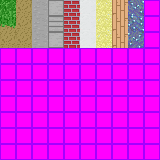
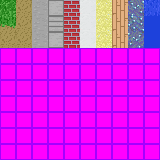
added water and added colour to lodmesh

Changed region(s): [[0.875, 0.0, 1.0, 0.3125]]

diff --git a/src/chunk/lodmesh.c b/src/chunk/lodmesh.c
@@ -1,52 +1,48 @@
 #include "chunk_common.h"
 
+float *push_vertex(float *buf, vec3s v, vec3s n, noise2d_params p) {
 
-// its a fair abstraction to think about 1 triangle at a time
-float *push_triangle(float *buf, vec3s v1, vec3s v2, vec3s v3, vec3s v1c, vec3s v2c, vec3s v3c) {
-    vec3s a = glms_vec3_sub(v3, v2);
-    vec3s b = glms_vec3_sub(v1, v2);
-    vec3s n = glms_normalize(glms_vec3_cross(a,b));
+    vec3s c;
 
-    // push vertices
-    arrpush(buf, v1.x);
-    arrpush(buf, v1.y);
-    arrpush(buf, v1.z);
+    if (v.y > p.snow_above_height) {
+        c = (vec3s) {0.9, 0.9, 0.9};
+    } else if (v.y <= p.water_below_height) {
+        c = (vec3s) {0.4, 0.4, 0.8};
+    } else if (v.y < p.sand_below_height) {
+        c = (vec3s) {0.7, 0.7, 0.1};
+    } else {
+        // grass
+        c = (vec3s) {0.4, 0.8, 0.5};
+    }
+
+    arrpush(buf, v.x);
+    arrpush(buf, v.y);
+    arrpush(buf, v.z);
+
+    arrpush(buf, c.x);
+    arrpush(buf, c.y);
+    arrpush(buf, c.z);
+
     arrpush(buf, n.x);
     arrpush(buf, n.y);
     arrpush(buf, n.z);
-    arrpush(buf, v1c.x);
-    arrpush(buf, v1c.y);
-    arrpush(buf, v1c.z);
-
-    arrpush(buf, v2.x);
-    arrpush(buf, v2.y);
-    arrpush(buf, v2.z);
-    arrpush(buf, n.x);
-    arrpush(buf, n.y);
-    arrpush(buf, n.z);
-    arrpush(buf, v2c.x);
-    arrpush(buf, v2c.y);
-    arrpush(buf, v2c.z);
-
-    arrpush(buf, v3.x);
-    arrpush(buf, v3.y);
-    arrpush(buf, v3.z);
-    arrpush(buf, n.x);
-    arrpush(buf, n.y);
-    arrpush(buf, n.z);
-    arrpush(buf, v3c.x);
-    arrpush(buf, v3c.y);
-    arrpush(buf, v3c.z);
 
     return buf;
 }
 
+vec3s calc_normal(vec3s v1, vec3s v2, vec3s v3) {
+    vec3s a = glms_vec3_sub(v3, v2);
+    vec3s b = glms_vec3_sub(v1, v2);
+    vec3s n = glms_normalize(glms_vec3_cross(a,b));
+
+    return n;
+}
 
 /*
 Generates a low def mesh for a chunk by sampling the height function n+1 points a side
 Equivalently, makes N^2 quads
 */
-lodmesh lodmesh_generate(struct osn_context *osn, noise2d_params p, int n, int cx, int cz) {
+lodmesh lodmesh_generate(struct osn_context *osn, noise2d_params p, int s, int cx, int cz) {
     float *buf = 0;
 
     // figure out x and z of each coordinate
@@ -54,45 +50,62 @@ lodmesh lodmesh_generate(struct osn_context *osn, noise2d_params p, int n, int c
     float oz = LODMESH_CHUNK_RADIX * cz;
 
 
-    for (int x = 0; x < n; x++) {
-        for (int z = 0; z < n; z++) {
-            vec3s colour = {0.3, 0.9, 0.4};
-
-
+    for (int x = 0; x < s; x++) {
+        for (int z = 0; z < s; z++) {
 
             vec3s v1 = {0};
             vec3s v2 = {0};
             vec3s v3 = {0};
+            
+            vec3s v1c = {0};
+            vec3s v2c = {0};
+            vec3s v3c = {0};
 
             // lower triangle
-            v2.x = ox + ((float)(x+1)*LODMESH_CHUNK_RADIX) / n;
-            v2.z = oz + (float)(z*LODMESH_CHUNK_RADIX) / n;
-            v2.y = generate_height(osn, v2.x, v2.z, p);
-
-            v1.x = ox + ((float)x*LODMESH_CHUNK_RADIX) / n;
-            v1.z = oz + ((float)z*LODMESH_CHUNK_RADIX) / n;
+            v1.x = ox + ((float)x*LODMESH_CHUNK_RADIX) / s;
+            v1.z = oz + ((float)z*LODMESH_CHUNK_RADIX) / s;
             v1.y = generate_height(osn, v1.x, v1.z, p);
 
-            v3.x = ox + ((float)x*LODMESH_CHUNK_RADIX) / n;
-            v3.z = oz + ((float)(z+1)*LODMESH_CHUNK_RADIX) / n;
+            v2.x = ox + ((float)(x+1)*LODMESH_CHUNK_RADIX) / s;
+            v2.z = oz + (float)(z*LODMESH_CHUNK_RADIX) / s;
+            v2.y = generate_height(osn, v2.x, v2.z, p);
+
+            v3.x = ox + ((float)x*LODMESH_CHUNK_RADIX) / s;
+            v3.z = oz + ((float)(z+1)*LODMESH_CHUNK_RADIX) / s;
             v3.y = generate_height(osn, v3.x, v3.z, p);
 
-            buf = push_triangle(buf, v2, v1, v3, colour, colour, colour);
+            v1.y = max(v1.y, p.water_below_height);
+            v2.y = max(v2.y, p.water_below_height);
+            v3.y = max(v3.y, p.water_below_height);
 
+            vec3s n = calc_normal(v2, v1, v3);
+            buf = push_vertex(buf, v2, n, p);
+            buf = push_vertex(buf, v1, n, p);
+            buf = push_vertex(buf, v3, n, p);
+            
             // upper triangle
-            v2.x = ox + ((float)x+1)*LODMESH_CHUNK_RADIX / n;
-            v2.z = oz + ((float)z)*LODMESH_CHUNK_RADIX / n;
-            v2.y = generate_height(osn, v2.x, v2.z, p);
-
-            v1.x = ox + ((float)x + 1)*LODMESH_CHUNK_RADIX / n;
-            v1.z = oz + ((float)z + 1)*LODMESH_CHUNK_RADIX / n;
+            v1.x = ox + ((float)(x+1)*LODMESH_CHUNK_RADIX) / s;
+            v1.z = oz + ((float)(z+1)*LODMESH_CHUNK_RADIX) / s;
             v1.y = generate_height(osn, v1.x, v1.z, p);
 
-            v3.x = ox + ((float)x)*LODMESH_CHUNK_RADIX / n;
-            v3.z = oz + ((float)z+1)*LODMESH_CHUNK_RADIX / n;
-            v3.y = generate_height(osn, v3.x, v3.z, p);
+/*
+            v2.x = ox + ((float)(x+1)*LODMESH_CHUNK_RADIX) / s;
+            v2.z = oz + (float)(z*LODMESH_CHUNK_RADIX) / s;
+            v2.y = generate_height(osn, v2.x, v2.z, p);
 
-            buf = push_triangle(buf, v1, v2, v3, colour, colour, colour);
+            v3.x = ox + ((float)x*LODMESH_CHUNK_RADIX) / s;
+            v3.z = oz + ((float)(z+1)*LODMESH_CHUNK_RADIX) / s;
+            v3.y = generate_height(osn, v3.x, v3.z, p);
+*/
+            v1.y = max(v1.y, p.water_below_height);
+//            v2.y = max(v2.y, p.water_below_height);
+//            v3.y = max(v3.y, p.water_below_height);
+
+            n = calc_normal(v1, v2, v3);
+            buf = push_vertex(buf, v1, n, p);
+            buf = push_vertex(buf, v2, n, p);
+            buf = push_vertex(buf, v3, n, p);
+
         }
     }
 
@@ -118,13 +131,13 @@ lodmesh lodmesh_generate(struct osn_context *osn, noise2d_params p, int n, int c
     glVertexAttribPointer(0, 3, GL_FLOAT, GL_FALSE, stride, (void*)0);
     glEnableVertexAttribArray(0);
 
-    // normal
-    glVertexAttribPointer(1, 3, GL_FLOAT, GL_FALSE, stride, (void*)(3*sizeof(float)));
-    glEnableVertexAttribArray(1);
-
     // colour
-    glVertexAttribPointer(2, 3, GL_FLOAT, GL_FALSE, stride, (void*)(6*sizeof(float)));
+    glVertexAttribPointer(1, 3, GL_FLOAT, GL_FALSE, stride, (void*)(3*sizeof(float)));
     glEnableVertexAttribArray(2);
+
+    // normal
+    glVertexAttribPointer(2, 3, GL_FLOAT, GL_FALSE, stride, (void*)(6*sizeof(float)));
+    glEnableVertexAttribArray(1);
 
     glBindBuffer(GL_ARRAY_BUFFER, 0);
     glBindVertexArray(0);

diff --git a/src/chunk/chunk.c b/src/chunk/chunk.c
@@ -131,19 +131,30 @@ chunk generate_v2(chunk_manager *cm, int x, int y, int z) {
 
     c.key = (vec3i) {x,y,z};
 
-    const int snow_height = 300;
+    int snow_height = cm->noise_params.snow_above_height;
+    int waterlevel = cm->noise_params.water_below_height;
+    int sandlevel = cm->noise_params.sand_below_height;
+
+    const float fast_path_safety_factor = 32; // if this is too low there will be artifacts
 
     float chunk_x = x*CHUNK_RADIX;
     float chunk_y = y*CHUNK_RADIX;
     float chunk_z = z*CHUNK_RADIX;  
 
     // fast path for air chunks
-    const float air_fast_path_safety_factor = 32; // if this is too low there will be artifacts
-    if (generate_height(cm->osn, chunk_x, chunk_z, cm->noise_params) + air_fast_path_safety_factor < chunk_y) {
-        // air happens to be 0 already
-        // block light happens to be 0 already
-        memset(sky_light, SKY_LIGHT_FULL, CHUNK_RADIX_3 * sizeof(uint8_t));
-        return c;
+    if (chunk_y > (generate_height(cm->osn, chunk_x, chunk_z, cm->noise_params) + fast_path_safety_factor)) {
+        if (chunk_y > waterlevel) {
+            // air happens to be 0 already
+            // block light happens to be 0 already
+            memset(sky_light, SKY_LIGHT_FULL, CHUNK_RADIX_3 * sizeof(uint8_t));
+            return c;
+        } else if (chunk_y < waterlevel - 16) {
+            memset(blocks, BLOCK_WATER, sizeof(block_tag));
+            // skylight 0
+            // blocklight 0
+            return c;
+        }
+        
     }
 
     for (int bx = 0; bx < CHUNK_RADIX; bx++) {
@@ -197,29 +208,34 @@ chunk generate_v2(chunk_manager *cm, int x, int y, int z) {
                     }
                 }
 
-                
-
-                // grass and stuff
-                if (gy < height - 4) {
-                    place_block = BLOCK_STONE; goto SET_BLOCK;
-                } else if (gy < height - 0.5) {
-                    // not stone layers
-                    if (height > -25) {
-                        place_block = BLOCK_DIRT; goto SET_BLOCK;
+                if (gy > height) {
+                    // above 2d heightmap: either water or air goes here
+                    if (gy < waterlevel) {
+                        place_block = BLOCK_WATER; goto SET_BLOCK;
                     } else {
-                        place_block = BLOCK_SAND; goto SET_BLOCK;
-                    }
-                } else if (gy < height + 0.5) {
-                    // top layer
-                    if (height > snow_height) {
-                        place_block = BLOCK_SNOW; goto SET_BLOCK;
-                    } else if (height > -25) {
-                        place_block = BLOCK_GRASS; goto SET_BLOCK;
-                    } else {
-                        place_block = BLOCK_SAND; goto SET_BLOCK;
+                        place_block = BLOCK_AIR; goto SET_BLOCK;
                     }
                 } else {
-                    place_block = BLOCK_AIR; goto SET_BLOCK;
+                    // select based on how far below we are, lowest first
+                    if (gy < height - 4) {
+                        place_block = BLOCK_STONE; goto SET_BLOCK;
+                    } else if (gy < height - 0.5) {
+                        // not stone layers
+                        if (height > sandlevel) {
+                            place_block = BLOCK_DIRT; goto SET_BLOCK;
+                        } else {
+                            place_block = BLOCK_SAND; goto SET_BLOCK;
+                        }
+                    } else if (gy < height + 0.5) {
+                        // top layer
+                        if (height > snow_height) {
+                            place_block = BLOCK_SNOW; goto SET_BLOCK;
+                        } else if (height > sandlevel) {
+                            place_block = BLOCK_GRASS; goto SET_BLOCK;
+                        } else {
+                            place_block = BLOCK_SAND; goto SET_BLOCK;
+                        }
+                    }
                 }
 
                 SET_BLOCK:

diff --git a/src/chunk/chunk_manager.c b/src/chunk/chunk_manager.c
@@ -172,6 +172,7 @@ int cm_load_n(chunk_manager *cm, vec3s pos, int n) {
     vec3i load_min = vec3i_sub(in_chunk, vec3i_div(cm->loaded_dimensions, 2));
     vec3i load_max = vec3i_add(in_chunk, vec3i_div(cm->loaded_dimensions, 2));
     
+    in_chunk = (vec3i) {0,0,0};
 
     int i = 0;
     int amt_actually_loaded = 0;
@@ -181,10 +182,15 @@ int cm_load_n(chunk_manager *cm, vec3s pos, int n) {
 
         // check that it hasnt been loaded yet and that we still want it loaded
         // (meaning its still in the loading volume)
-        if (hmgeti(cm->chunk_hm, k) < 0 && vec3i_bounded_inclusive(load_max, load_min, in_chunk)) {
-            cm_load_chunk(cm, spread(k));
-            arrpush(cm->light_list, k);
-            amt_actually_loaded++;
+        if (hmgeti(cm->chunk_hm, k) < 0) {
+            if (vec3i_bounded_inclusive(load_max, load_min, in_chunk)) {
+                printf("load max %d %d %d load min %d %d %d in %d %d %d\n", spread(load_max), spread(load_min), spread(in_chunk));
+                cm_load_chunk(cm, spread(k));
+                arrpush(cm->light_list, k);
+                amt_actually_loaded++;
+            } else {
+                printf("dont need to load this one since you moved\n");
+            }
         }
         i++;
     }
@@ -284,6 +290,14 @@ void cm_test() {
 
     int i = hmgeti(lm_hm, m.key);
     assert_int_equal("hmgeti 0 in", 0, i);
+
+    assert_bool_equal("bounded inclusive 1", vec3i_bounded_inclusive((vec3i){10,10,10}, (vec3i){-10,-10,-10}, (vec3i){0,0,0}), true);
+    assert_bool_equal("bounded inclusive 1b", vec3i_bounded_inclusive((vec3i){10,10,10}, (vec3i){-10,-10,-10}, (vec3i){0,20,0}), false);
+    assert_bool_equal("bounded inclusive 1b", vec3i_bounded_inclusive((vec3i){10,10,10}, (vec3i){-10,-10,-10}, (vec3i){0,0,20}), false);
+    assert_bool_equal("bounded inclusive 1a", vec3i_bounded_inclusive((vec3i){10,10,10}, (vec3i){-10,-10,-10}, (vec3i){20,0,0}), false);
+    assert_bool_equal("bounded inclusive 2", vec3i_bounded_inclusive((vec3i){10,10,10}, (vec3i){-10,-10,-10}, (vec3i){20,20,20}), false);
+    assert_bool_equal("bounded inclusive 3", vec3i_bounded_inclusive((vec3i){10,10,10}, (vec3i){0,0,0}, (vec3i){-5,-5,-5}), false);
+    assert_bool_equal("bounded inclusive 4", vec3i_bounded_inclusive((vec3i){63,6,87}, (vec3i){53,-4,77}, (vec3i){58,1,82}), true);
     
 
 

diff --git a/src/main.c b/src/main.c
@@ -79,6 +79,10 @@ int main(int argc, char** argv) {
     
     arrpush(p.cave_tendency_frequency, 0.02);
 
+    p.snow_above_height = 300;
+    p.dirt_above_height = -20;
+    p.sand_below_height = -20;
+    p.water_below_height = -25;
 
     cm.noise_params = p;
 
@@ -87,7 +91,7 @@ int main(int argc, char** argv) {
 
     camera cam = fly_camera();
     float spawn_x = 2000;
-    float spawn_z = 2000;
+    float spawn_z = 300;
     float spawn_y = generate_height(cm.osn, spawn_x, spawn_z, p) + 2;
     cam.pos = (vec3s) {spawn_x, spawn_y, spawn_z};
     cam.front = (vec3s) {0, 0, -1};

diff --git a/inc/block.h b/inc/block.h
@@ -15,6 +15,7 @@ typedef enum __attribute__ ((__packed__)) {
     BLOCK_SAND,
     BLOCK_PLANKS,
     BLOCK_GEMS,
+    BLOCK_WATER,
     // BLOCK_UNKNOWN, todo use this, and look up block opacity
     NUM_BLOCKS,
 } block_tag;
@@ -24,6 +25,12 @@ typedef struct {
     uint8_t luminance;
 } block_definition;
 
+/*
+maybe block defs should be, opacity: 
+    OPAQUE, TRANSPARENT_PARTIAL, TRANSPARENT_FULL
+and pickable
+and meshing clusters of these needs to work properly
 
+*/
 
 #endif

diff --git a/inc/chunk_common.h b/inc/chunk_common.h
@@ -54,6 +54,12 @@ typedef struct {
 
     float *cave_tendency_amplitude;
     float *cave_tendency_frequency;
+
+    int snow_above_height;
+    int dirt_above_height;
+    int sand_below_height;
+    int water_below_height;
+
 } noise2d_params;
 
 

diff --git a/src/chunk/world.c b/src/chunk/world.c
@@ -40,6 +40,10 @@ block_definition block_defs[NUM_BLOCKS] = {
     {
         .opaque = true,
         .luminance = 6,
+    },    
+    {
+        .opaque = false,
+        .luminance = 0,
     },
 
 };

diff --git a/devlog.md b/devlog.md
@@ -61,3 +61,7 @@ can probably seriously optimize world gen by having a priority queue and, using 
 -----------------------------------------------------
 
 also why does reticle still squish stupidly? it could relate to the smelly way that window and stuff is glued together
+
+you know if block defs were in block.h that would be sensible
+
+also texture atlas is still handled pretty retardedly
